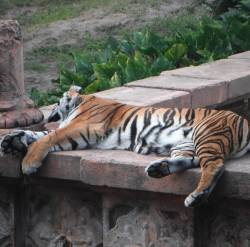
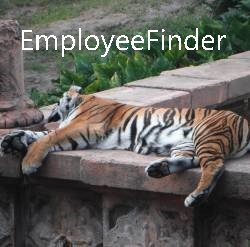
updated link to employeeFinder

Changed region(s): [[0.084, 0.1134, 0.924, 0.2267]]

diff --git a/portfolio.html b/portfolio.html
@@ -70,16 +70,17 @@
         <img src = "./images/car.jpg" alt = "Car">
         <img src = "./images/dog.jpg" alt = "Dog">
         <img src = "./images/fatCat.jpg" alt = "FatCat">
-        <img src = "./images/ScardyCat.jpg" alt = "ScardyCat">
+
+        <a href="https://agile-tundra-10362.herokuapp.com/">
+            <img src = "./images/ScardyCat.jpg" alt = "EmployeeFinder" >
+        </a>
+        
         <img src = "./images/sleepyCat.jpg" alt = "SleepyCat">
+        
         <a href="https://djtucker123.github.io/StockHomework11102018/">
             <img src = "./images/stock_market.jpg" alt = "Stock-Market" >
         </a>
-        <h4>EmployeeFinder application is linked here https://github.com/djtucker123/EmployeeFinder.git</h4>
-        <h5>Linking to a running app is an issue unless it is Herarko link to go here or I need to 
-            see TA for assistance - so putting this here as placeholder until I can resolve the issue I am having with linking to app where the target requirs a fixed filesystem
-            
-        </h5>
+
   </div>
 </div>
 
